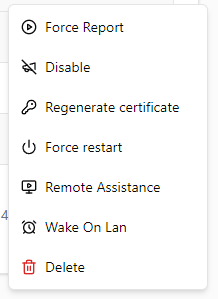
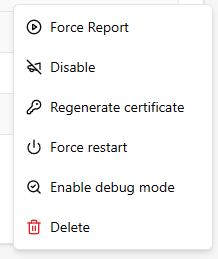
feat: set debug mode on demand

Changed region(s): [[0.0, 0.0309, 0.9358, 0.9884], [0.9358, 0.0309, 0.9633, 0.9575]]

diff --git a/docs/04-Console/05-agents.md b/docs/04-Console/05-agents.md
@@ -56,6 +56,8 @@ You can set the state of an agent to **"Disabled""** which means that the agent 
 
 ## 2. More actions
 
+![More actions for enabled agent](/img/console/more_actions_enabled_agent.png)
+
 If the agent is in the **"Waiting for admission"** state, you can only admit it or delete it.
 
 If the agent is in the **"Enabled""** state, you have the following actions:
@@ -64,13 +66,23 @@ If the agent is in the **"Enabled""** state, you have the following actions:
 - Disable the agent to avoid receiving new reports.
 - Regenerate a certificate. A request is made to generate new certificates for the agent's SFTP and VNC proxy servers.
 - Force restart. If you think that the agent may not be working fine or that it could have been hung up, you can try to force a restart of the service.
-- Remote assistance. You can try to open a remote assistance session using VNC.
-- Wake on Lan. If your endpoint is in the same LAN where the OpenUEM server lives, you can try to send a magic packet to boot it up.
+
+
+The following actions are available no matter which state is:
+
 - Delete. You can delete the agent but note that, unless you uninstall the agent, it'll keep trying to send new information.
+- Enable/Disable debug mode (🎯 0.5.0). You can enable or disable the debug mode for the agent. Debug mode shows more verbose log messages.
 
-![More actions for enabled agent](/img/console/more_actions_enabled_agent.png)
+:::note
+If you enable the debug mode for the agent, the size of the log file may get bigger quickly so a warning will be shown next to the hostname if the debug mode has been enabled
 
-If you click on the hostname associated with the agent you'll visit the Computers view
+![Debug mode enabled for agent](/img/console/agent_debug_mode_enabled.png)
+
+:::
+
+
+Finally, if you click on the hostname associated with the agent you'll visit the Computers view
+
 
 ## 3. PDF Report (🎯 0.2.0)
 

diff --git a/docs/08-Release Notes/02-servers.md b/docs/08-Release Notes/02-servers.md
@@ -16,6 +16,11 @@ keywords:
 
 # Server
 
+## 0.5.0 ()
+
+- Feat: enable or disable debug mode for an agent on demand
+- Feat: show percentage for disk usage for the current bar
+
 ## 0.4.1 (20/03/2025)
 
 - Fix: fix minor issues with database when saving a profile issue and deployment info from winget

diff --git a/docs/08-Release Notes/01-agents.md b/docs/08-Release Notes/01-agents.md
@@ -16,6 +16,10 @@ keywords:
 
 # Agents
 
+## 0.4.0
+
+- Feat: enable or disable debug mode for an agent on demand
+
 ## 0.3.1
 
 - Feat: Add Microsoft Visual C++ Redistributable required in clean Windows installations required by WinGet
